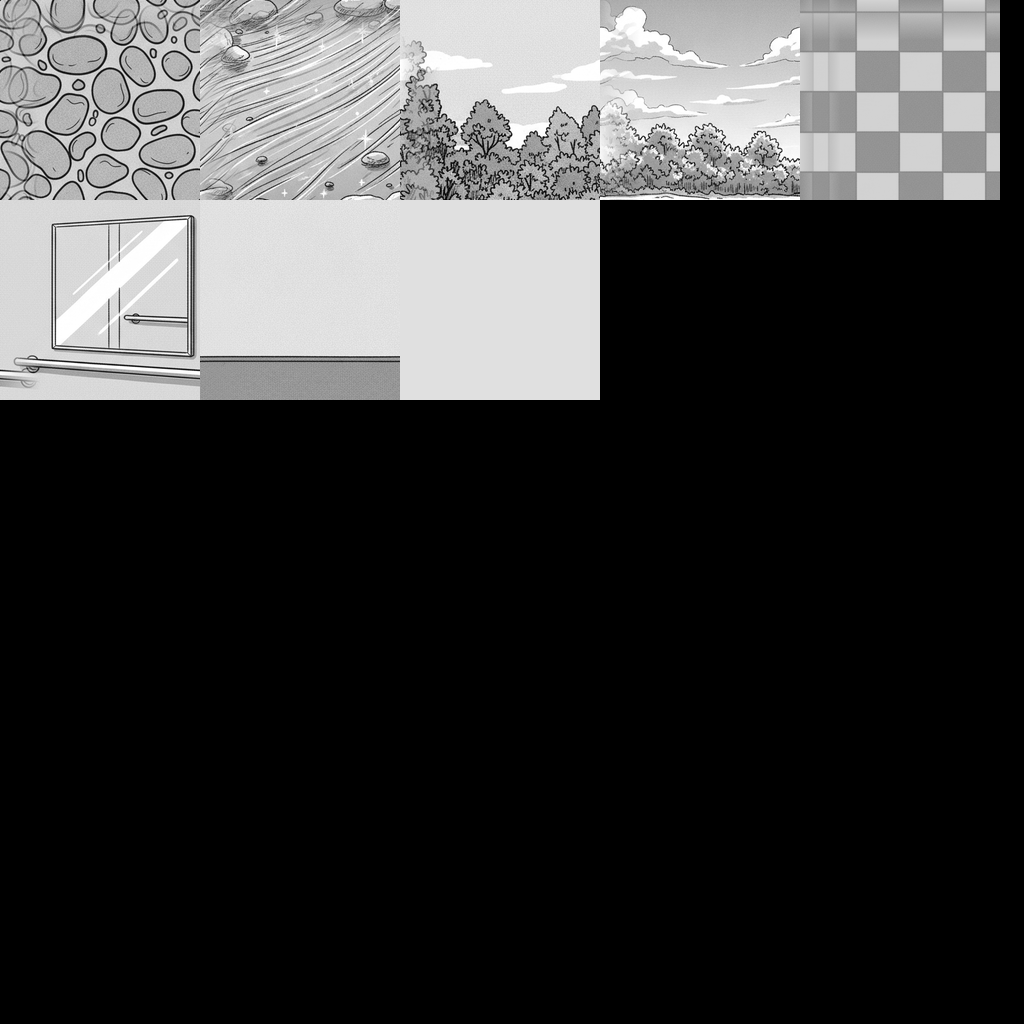
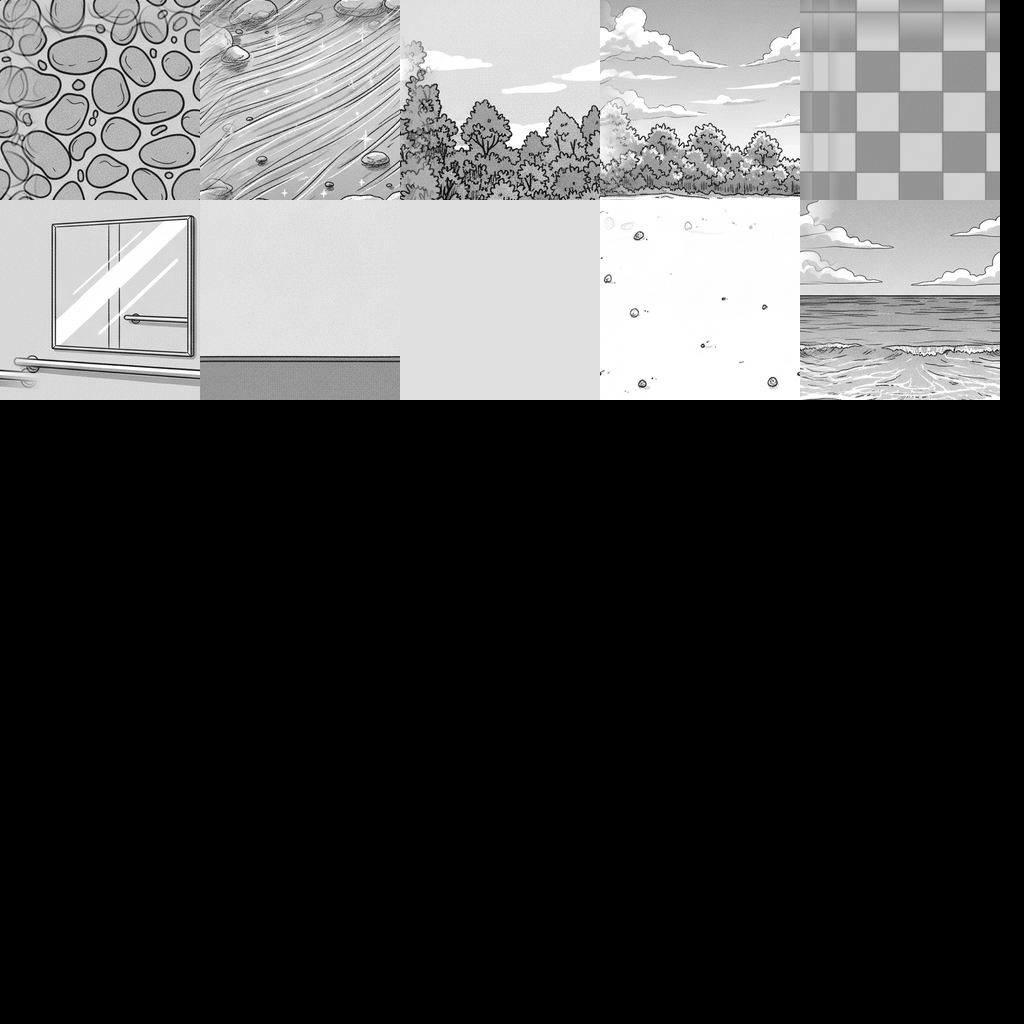
병문안 v0.80: 3일차 부탁, 어머니와의 바닷가를 걷는 기억
- 의사의 3일차 부탁: 4층 옆 병실 보호자(개인화)를 질문으로
- 바닷가: 물을 사 오니 사라진 엄마, 자기 탓을 하는 생각, 매점 뒤의 엄마("너 탓 아니야")
- 같이 숨 고르기, 다음 날 소녀에게 그 이야기
- Gemini 2회(누적 45회)

Changed region(s): [[0.5625, 0.1875, 1.0, 0.4062]]

diff --git a/src/features/visit/requests.ts b/src/features/visit/requests.ts
@@ -39,7 +39,7 @@ export type Request = {
    * what goes through their head at each step in between. Then back to the hospital, at `person`'s `again`.
    */
   /** `opening`: what goes through their head on arriving, before anything happens. */
-  memory: { place: 'river' | 'rehab'; title: string; opening: string; lostTitle: string; returnTitle: string; meet: Talk; found: Talk; thoughts: string[] };
+  memory: { place: 'river' | 'rehab' | 'beach'; title: string; opening: string; lostTitle: string; returnTitle: string; meet: Talk; found: Talk; thoughts: string[] };
   /** Who they are, for answering what the player writes themselves (Gemini, for those who turned AI on; api/chat.ts). */
   persona: string;
 };
@@ -248,6 +248,112 @@ export const REQUESTS: Request[] = [
     girl: {
       choice: '2층 청년 이야기',
       lines: ['넘어지는 거랑 못 걷는 거는 다르다… 그 말 좋다.', '나는 요즘 넘어질 일도 없어. 누워만 있으니까.', '…그래도 그 말은 가지고 있을게.'],
+    },
+  },
+  {
+    day: 3,
+    who: '4p',
+    name: '4층 옆 병실 보호자',
+    distortion: '개인화',
+    goal: { text: '4층 옆 병실 보호자와 이야기하기', floor: 4, cell: { x: 12, y: 1 }, face: 1 },
+    doctor: {
+      start: {
+        lines: [
+          '오셨어요. 오늘도 하나 부탁드려도 될까요?',
+          '이 층 보호자 휴게실에 계신 분이요. 어머니가 아프신 게 전부 자기 탓이라고 믿고 계세요.',
+          '일어난 일을 모두 자기 탓으로 가져가는 거죠. 개인화라고 해요.',
+          '질문을 몇 개만 해 주세요. 안 하셔도 괜찮아요.',
+        ],
+        choices: [
+          { label: '해 볼게요', to: 'yes' },
+          { label: '오늘은 어려워요', to: 'no' },
+        ],
+      },
+      yes: { effect: 'accept', lines: ['고마워요. 4층 보호자 휴게실이에요. 오른쪽 위쪽 방.'] },
+      no: { lines: ['괜찮아요. 마음이 생기면 언제든 들러 주세요.'] },
+    },
+    person: {
+      start: {
+        lines: ['…아, 의사 선생님이 보내셨어요? 저 괜찮아요.', '엄마가 이렇게 된 건 제 탓이에요. 제가 더 자주 왔어야 했어요.', '바쁘다는 핑계로 한 달에 한 번. 그게 다였어요.'],
+        choices: [
+          { label: '어머니가 아프시게 된 데에는 어떤 일들이 함께 있었을까요?', to: 'causes' },
+          { label: '그렇게 자책하지 마세요.', to: 'dismissed' },
+          { label: '지금부터 자주 오시면 되죠.', to: 'advised' },
+        ],
+      },
+      dismissed: {
+        lines: ['자책이 아니라 사실이에요.'],
+        choices: [
+          { label: '어머니가 아프시게 된 데에는 어떤 일들이 함께 있었을까요?', to: 'causes' },
+          { label: '지금부터 자주 오시면 되죠.', to: 'advised' },
+        ],
+      },
+      advised: {
+        lines: ['…지금은 와도 소용없을까 봐요.'],
+        choices: [
+          { label: '어머니가 아프시게 된 데에는 어떤 일들이 함께 있었을까요?', to: 'causes' },
+          { label: '그렇게 자책하지 마세요.', to: 'dismissed' },
+        ],
+      },
+      causes: {
+        lines: ['…병이요. 나이도 있고요. 엄마가 검진을 몇 번 미루기도 했어요.', '근데 그것도 제가 챙겼어야죠.'],
+        choices: [
+          { label: '같은 일이 친구에게 있었다면, 그 친구에게도 그렇게 말할 거예요?', to: 'friend' },
+          { label: '맞아요, 좀 더 챙기셨으면 좋았겠네요.', to: 'agreed' },
+        ],
+      },
+      agreed: {
+        lines: ['…역시 그렇죠.'],
+        choices: [{ label: '같은 일이 친구에게 있었다면, 그 친구에게도 그렇게 말할 거예요?', to: 'friend' }],
+      },
+      friend: {
+        lines: ['…아니요. 너 탓 아니라고 했겠죠.', '이상하네요. 저한테만 그게 안 돼요.'],
+        choices: [
+          { label: '어머니는 이 일을 어떻게 생각하실까요? 둘이 함께한 기억 중에 떠오르는 게 있어요?', to: 'story' },
+          { label: '그럼 이제 마음이 좀 편하시죠?', to: 'rushed' },
+        ],
+      },
+      rushed: {
+        lines: ['그렇게 금방은 안 돼요.'],
+        choices: [{ label: '어머니는 이 일을 어떻게 생각하실까요? 둘이 함께한 기억 중에 떠오르는 게 있어요?', to: 'story' }],
+      },
+      story: { lines: ['…작년 여름에 엄마랑 바다에 갔어요. 둘이서는 처음이었어요.'], then: 'remembered' },
+      remembered: { effect: 'memory', lines: [] },
+      again: {
+        lines: ['…그때 엄마가 그랬어요. 엄마 몸은 엄마가 챙기는 거라고. 나는 와 주는 걸로 충분하다고.', '그 말을 잊고 있었어요. 아니, 안 믿었던 것 같아요.', '제 탓인 것도 조금은 있겠죠. 근데 전부는 아니었네요.'],
+        choices: [{ label: '같이 천천히 숨 좀 쉬고 가요.', to: 'relax' }],
+      },
+      relax: { effect: 'breathe', relax: 'breath', lines: ['…네.'], then: 'done' },
+      done: { effect: 'solve', lines: ['…좀 가벼워졌어요.', '오늘은 엄마 손 잡고 바다 얘기 해 드릴게요.'] },
+    },
+    memory: {
+      place: 'beach',
+      title: '작년 여름, 엄마와 바다',
+      opening: '엄마랑 둘이 바다라니. 몇 년 만이지.',
+      lostTitle: '길 건너 가게에서 물을 사 오니, 엄마가 자리에 없다.',
+      returnTitle: '다시, 병원',
+      meet: {
+        start: {
+          lines: ['바다 오니까 좋다. 너랑 둘이 이렇게 온 거 얼마 만이니.', '목마르다. 길 건너 가게에서 물 좀 사다 줄래?'],
+          choices: [{ label: '금방 다녀올게요.', to: 'go' }],
+        },
+        go: { lines: ['천천히 와. 엄마 여기 있을게.'], then: 'gone' },
+        gone: { effect: 'lose', lines: [] },
+      },
+      found: {
+        start: {
+          lines: ['어, 왔니? 매점 뒤에 조개가 많길래.', '…얼굴이 왜 그래. 검진 미룬 거, 그건 엄마가 고집부린 거야. 너 탓 아니야.', '엄마 몸은 엄마가 챙기는 거야. 너는 와 주는 걸로 충분해.'],
+          choices: [{ label: '…같이 앉아 있어요, 엄마.', to: 'back' }],
+        },
+        back: { effect: 'return', lines: [] },
+      },
+      thoughts: ['또 혼자 뒀어.', '내가 더 자주 왔으면 이렇게까지 아프진 않았을 텐데.', '검진 날짜도 내가 챙겼어야 했는데.', '다 내 탓이야.', '…저기, 매점 뒤에.'],
+    },
+    persona: `4층 호스피스 병동 옆 병실의 보호자. 사십 대 여성. 말기의 어머니를 돌보며, 어머니가 아픈 게 자기가 자주 오지 않았기 때문이라고 믿는다(개인화). 조용하고 지쳐 있다. 작년 여름 어머니와 둘이 바다에 갔을 때 어머니가 "엄마 몸은 엄마가 챙기는 거야. 너는 와 주는 걸로 충분해"라고 했던 일은, 플레이어가 함께한 기억을 묻기 전에는 먼저 꺼내지 않는다.`,
+    after: ['어제 엄마랑 바다 얘기 했어요. 엄마가 웃었어요.'],
+    girl: {
+      choice: '4층 옆 병실 보호자분 이야기',
+      lines: ['너 탓 아니야. 그 말, 하기는 쉬운데 듣기는 어렵지.', '우리 엄마도 그런 얼굴 해. 나 볼 때.', '…나중에 엄마한테 그 말 해 줘야겠다. 내가.'],
     },
   },
 ];

diff --git a/scripts/check-core-flow.js b/scripts/check-core-flow.js
@@ -835,11 +835,60 @@ async function main() {
       t.note('병문안: 2일차 부탁이 풀림', await t.waitText('다리가 좀 제 거 같네요', 2000));
       await stepBack();
 
+      // the doctor's request for the day, taken on, and the questions that lead to the story (each request below)
+      const request = async (who, questions) => {
+        await openMap();
+        await t.clickText('(시험) 의사 앞');
+        await sleep(400);
+        await t.clickText('의사 선생님에게 말 걸기');
+        await tapUntil('해 볼게요');
+        await t.clickText('해 볼게요');
+        await sleep(300);
+        await stepBack();
+        await openMap();
+        await t.clickText('(시험) 부탁 상대 앞');
+        await sleep(500);
+        await t.clickText(`${who}에게 말 걸기`);
+        for (const q of questions) {
+          await tapUntil(q);
+          await t.clickText(q);
+        }
+      };
+
       await nextDay();
       await talk();
       await tapUntil('병실 앞 복도');
       await toClue();
       await pickClue();
+      await stepBack();
+      // day 3's request: the daughter whose mother is dying, and the beach they went to
+      await request('옆 병실 보호자', ['어머니가 아프시게 된 데에는 어떤 일들이 함께 있었을까요?', '같은 일이 친구에게 있었다면, 그 친구에게도 그렇게 말할 거예요?', '어머니는 이 일을 어떻게 생각하실까요? 둘이 함께한 기억 중에 떠오르는 게 있어요?']);
+      t.note('병문안: 엄마와의 바다로 감', await tapUntil('파라솔 밑의 엄마에게 가기'));
+      await sleep(500);
+      await t.shot('beach_start.png');
+      await press('앞으로', 2);
+      await press('왼쪽');
+      t.note('병문안: 파라솔 밑의 엄마', await t.clickText('엄마에게 말 걸기'));
+      await tapUntil('금방 다녀올게요.');
+      await t.shot('beach_meet.png');
+      await t.clickText('금방 다녀올게요.');
+      t.note('병문안: 돌아오니 엄마가 없음', await tapUntil('엄마 찾기'));
+      await sleep(500);
+      await t.shot('beach_lost.png');
+      await press('오른쪽');
+      await press('앞으로', 6);
+      t.note('병문안: 찾는 동안 자기 탓', (await t.hasText('다 내 탓이야.')) || (await t.hasText('…저기, 매점 뒤에.')));
+      await press('오른쪽');
+      t.note('병문안: 매점 뒤의 엄마', await t.clickText('엄마에게 말 걸기'));
+      t.note('병문안: 엄마는 네 탓이 아니라고', await t.waitText('어, 왔니? 매점 뒤에 조개가 많길래.', 2000));
+      await t.shot('beach_found.png');
+      await tapUntil('…같이 앉아 있어요, 엄마.');
+      await t.clickText('…같이 앉아 있어요, 엄마.');
+      t.note('병문안: 보호자가 그날을 돌아봄', await tapUntil('같이 천천히 숨 좀 쉬고 가요.', 30));
+      await t.clickText('같이 천천히 숨 좀 쉬고 가요.');
+      await t.waitText('숨을 들이쉬어요', 2000);
+      await t.clickText('충분해요');
+      t.note('병문안: 3일차 부탁이 풀림', await t.waitText('좀 가벼워졌어요', 2000));
       await stepBack();
       await nextDay();
       await talk();

diff --git a/src/features/visit/places.ts b/src/features/visit/places.ts
@@ -8,7 +8,7 @@
 type Spot = { x: number; y: number; dir: 0 | 1 | 2 | 3 };
 
 /** Tiles on the memory sheet (hospitalArt.ts MEMORY_TILES), by name. */
-export type MemoryTile = 'pebbles' | 'water' | 'woods' | 'farBank' | 'rehabFloor' | 'rehabWall' | 'plainWall' | 'ceiling';
+export type MemoryTile = 'pebbles' | 'water' | 'woods' | 'farBank' | 'rehabFloor' | 'rehabWall' | 'plainWall' | 'ceiling' | 'sand' | 'sea';
 
 export type Place = {
   map: string[];
@@ -44,7 +44,7 @@ export type Place = {
   lostArrow: boolean;
 };
 
-export type PlaceId = 'river' | 'rehab';
+export type PlaceId = 'river' | 'rehab' | 'beach';
 
 export const PLACES: Record<PlaceId, Place> = {
   // A summer riverside: C the car, A the tent, R thick bushes (nothing behind them shows), % rocks, ~ the river.
@@ -125,5 +125,46 @@ export const PLACES: Record<PlaceId, Place> = {
     meetGoal: '물리치료사에게 가기',
     lostGoal: '평행봉 끝까지 걷기',
     lostArrow: true,
+  },
+  // A summer beach, a mother and her grown-up daughter: U the umbrella, B a bench, K a closed snack kiosk (she's found
+  // behind it), O a rowboat on the sand, ~ the sea.
+  beach: {
+    map: [
+      '###########',
+      '#..U......#',
+      '#..k......#',
+      '#.........#',
+      '#.B.....Kj#',
+      '#......O..#',
+      '#~~~~~~~~~#',
+      '#~~~~~~~~~#',
+      '###########',
+    ],
+    outdoors: true,
+    start: { x: 1, y: 3, dir: 1 },
+    meet: { x: 3, y: 3, dir: 0 },
+    found: { x: 9, y: 3, dir: 2 },
+    lostAt: { x: 3, y: 3, dir: 0 },
+    stops: 'UBKO~',
+    spread: '~',
+    things: {
+      U: { look: 'beachUmbrella', text: '파라솔이다. 그늘이 아직 따뜻하다.' },
+      B: { look: 'beachBench', text: '나무 벤치다. 모래가 잔뜩 묻어 있다.' },
+      K: { look: 'beachKiosk', text: '문 닫은 매점이다. 그 뒤가 보이지 않는다.' },
+      O: { look: 'beachBoat', text: '모래에 끌어올린 나룻배다.' },
+      '~': { text: '파도가 발치까지 왔다가 돌아간다.' },
+    },
+    ground: 'sand',
+    groundOn: { '~': 'water' },
+    wall: 'woods',
+    southWall: 'sea',
+    wallHeight: 2.6,
+    span: 3,
+    fog: [0.84, 0.84, 0.82],
+    light: 1.16,
+    people: { k: { name: '엄마', look: 'mother' }, j: { name: '엄마', look: 'mother' } },
+    meetGoal: '파라솔 밑의 엄마에게 가기',
+    lostGoal: '엄마 찾기',
+    lostArrow: false,
   },
 };

diff --git a/scripts/assets/generate-hospital-art.js b/scripts/assets/generate-hospital-art.js
@@ -88,6 +88,15 @@ hands unfolding a letter, the writing not visible. Only the hands and forearms s
   // The first day: hair down, both shoulders on the mattress, only her head turning.
   'lying-loose-window': `${LYING_LOOSE} Only her head is turned to the side, her face in profile looking far away out of a window. Calm, a little distant.`,
   'lying-loose-turned': `${LYING_LOOSE} Only her head is turned about halfway back toward the viewer, both eyes visible, looking up from the pillow. The faintest playful hint at the corner of her mouth.`,
+  // v0.80: the third request's memory, a summer beach with a mother
+  'beach-tex': `${SAME_STYLE} Two separate square panels side by side with a wide plain gap, each completely filled edge to edge,
+flat, no frame: a sandy beach seen from straight above, fine sand with a few footprints and small shells, evenly lit; and
+the sea seen straight out from the beach, the upper half an open summer sky with a few soft clouds, the horizon across the
+middle, gentle waves and a strip of wet sand along the bottom edge.`,
+  'beach-props': `${SAME_STYLE} Five separate things, each whole and seen straight on: a striped beach umbrella planted in the
+sand; a small seaside snack kiosk with an awning and no writing; a small wooden rowboat pulled up on the sand, seen from
+the side; a low wooden bench; and a woman in her late sixties in a wide sun hat, a light cardigan and a long skirt, full
+body, standing, facing the viewer, feet visible, a gentle smile.`,
   // v0.79: the second request's memory, a rehabilitation room on the first day of walking again
   'rehab-tex': `${SAME_STYLE} Two separate square panels side by side with a wide plain gap, each completely filled edge to edge,
 flat, no perspective, evenly lit: a rehabilitation room floor of soft rubber floor tiles seen from straight above; and a

diff --git a/scripts/assets/build-hospital-sheets.js b/scripts/assets/build-hospital-sheets.js
@@ -80,6 +80,12 @@ const ITEMS = {
     { src: 'rehab-props', box: [330, 470, 530, 670], cell: { x: 256, y: 0, w: 256, h: 256 } },
     { src: 'rehab-props', box: [542, 538, 756, 674], cell: { x: 512, y: 0, w: 256, h: 256 } },
     { src: 'rehab-props', box: [768, 418, 1000, 678], cell: { x: 768, y: 0, w: 256, h: 256 } },
+    // v0.80: the beach
+    { src: 'beach-props', box: [12, 438, 270, 750], cell: { x: 0, y: 256, w: 256, h: 256 } },
+    { src: 'beach-props', box: [278, 498, 528, 748], cell: { x: 256, y: 256, w: 256, h: 256 } },
+    { src: 'beach-props', box: [488, 636, 702, 732], cell: { x: 512, y: 256, w: 256, h: 256 } },
+    { src: 'beach-props', box: [698, 664, 850, 750], cell: { x: 768, y: 256, w: 256, h: 256 } },
+    { src: 'beach-props', box: [858, 362, 988, 766], cell: { x: 0, y: 512, w: 256, h: 512 }, height: 470 },
   ],
   // v0.74: everyone who shared a drawing now has their own (hospitalArt.ts PERSON2_SLOT).
   people2: [
@@ -406,6 +412,9 @@ const MEMORY = [
   { tile: 5, src: 'rehab-tex', box: [556, 294, 966, 712], seam: 'x' },
   { tile: 6, ...WALL },
   { tile: 7, flat: 224 },
+  // v0.80: the beach's sand, and the sea under its sky
+  { tile: 8, src: 'beach-tex', box: [56, 300, 458, 590], seam: 'xy' },
+  { tile: 9, src: 'beach-tex', box: [560, 294, 972, 696], seam: 'x' },
 ];
 // The glass of the window tile, and what each floor sees through it: the horizon of the courtyard, and the ginkgo
 // (the same drawing as the courtyard's own) at its middle, its foot and its height. From the fourth floor it's small

diff --git a/src/features/visit/hospitalArt.ts b/src/features/visit/hospitalArt.ts
@@ -162,13 +162,18 @@ function doorShape(p: Pen, x: number, y: number) {
 
 // Tiles taken whole from the drawn sheet when it's there; the rest are painted here, over the drawn wall where they have one.
 /** v0.79: the remembered places' own sheet of tiles (places.ts MemoryTile), the same layout as the structure sheet. */
-export const MEMORY_TILES = { pebbles: 0, water: 1, woods: 2, farBank: 3, rehabFloor: 4, rehabWall: 5, plainWall: 6, ceiling: 7 } as const;
+export const MEMORY_TILES = { pebbles: 0, water: 1, woods: 2, farBank: 3, rehabFloor: 4, rehabWall: 5, plainWall: 6, ceiling: 7, sand: 8, sea: 9 } as const;
 /** And their things and people, cut out like the rest. */
 export const MEMORY_PART = {
   rehabBars: { x: 0, y: 0, w: 256, h: 256 },
   rehabStairs: { x: 256, y: 0, w: 256, h: 256 },
   rehabMat: { x: 512, y: 0, w: 256, h: 256 },
   rehabBike: { x: 768, y: 0, w: 256, h: 256 },
+  beachUmbrella: { x: 0, y: 256, w: 256, h: 256 },
+  beachKiosk: { x: 256, y: 256, w: 256, h: 256 },
+  beachBoat: { x: 512, y: 256, w: 256, h: 256 },
+  beachBench: { x: 768, y: 256, w: 256, h: 256 },
+  mother: { x: 0, y: 512, w: 256, h: 512 },
 } as const;
 export type MemoryPart = keyof typeof MEMORY_PART;
 

diff --git a/src/features/visit/progress.ts b/src/features/visit/progress.ts
@@ -50,7 +50,7 @@ export function clueOn(day: number, floor: number) {
 }
 
 /** The days the doctor has a request (REQUESTS in requests.ts; scripts/check-visit-logic.mjs keeps the two the same). */
-export const REQUEST_DAYS: readonly number[] = [1, 2];
+export const REQUEST_DAYS: readonly number[] = [1, 2, 3];
 
 /** The happy ending: every one of the doctor's requests settled by the last day (docs/의사의_부탁.md). */
 export function happyUnlocked(solved: readonly number[]): boolean {

diff --git a/src/features/visit/hospitalScene.ts b/src/features/visit/hospitalScene.ts
@@ -136,6 +136,11 @@ const SPRITE_SIZE: Partial<Record<SpriteLook, { w: number; h: number }>> = {
   rehabStairs: { w: 0.9, h: 0.9 },
   rehabMat: { w: 0.85, h: 0.85 },
   rehabBike: { w: 0.85, h: 0.85 },
+  beachUmbrella: { w: 1.05, h: 1.05 },
+  beachKiosk: { w: 1.35, h: 1.35 },
+  beachBoat: { w: 0.95, h: 0.95 },
+  beachBench: { w: 0.8, h: 0.8 },
+  mother: { w: 0.4, h: 0.8 },
   collar: { w: 0.24, h: 0.24 },
   snack: { w: 0.24, h: 0.24 },
   laces: { w: 0.24, h: 0.24 },

diff --git a/docs/의사의_부탁.md b/docs/의사의_부탁.md
@@ -24,8 +24,8 @@
 | v0.72 | 보호자의 사연을 걷는 강가 장면(제미나이 그림 포함) | 완료 |
 | v0.73 | AI를 켠 사람의 직접 쓰는 대화 | 완료 |
 | v0.79 | 2일차: 곧 퇴원하는 청년, 재활실 첫날 | 완료 |
-| v0.80 | 3일차: 옆 병실 보호자, 어머니와의 바닷가 | 다음 |
-| v0.81 | 4일차: 외래의 어르신, 젊은 시절의 시장 | |
+| v0.80 | 3일차: 옆 병실 보호자, 어머니와의 바닷가 | 완료 |
+| v0.81 | 4일차: 외래의 어르신, 젊은 시절의 시장 | 다음 |
 | v0.82 | 5일차: 창가의 할아버지, 손주와 장기 두던 마당 | |
 | v0.83 | 6일차: 자원봉사자, 편지를 부치러 가던 밤길 | |
 
@@ -76,6 +76,22 @@
 ```
 
 "평행봉 끝까지만 가 봐요" → 중간에서 넘어짐 → 한 걸음마다 "역시 안 돼", "또 넘어질 거야. 뻔해" … "저기, 끝이 보인다" → 끝의 치료사가 "넘어지고 나서 네 걸음 더 왔어요" → 병원에서 "넘어지면 거기서 끝나는 건 아니었어요" → 같이 힘 빼기.
+
+### 바닷가 (3일차, v0.80)
+
+```
+###########
+#..U......#   U 파라솔
+#..k......#   k 엄마
+#.........#
+#.B.....Kj#   B 벤치, K 문 닫은 매점(그 뒤에 엄마 j)
+#......O..#   O 나룻배
+#~~~~~~~~~#   바다
+#~~~~~~~~~#
+###########
+```
+
+"물 좀 사다 줄래?" → 돌아오니 빈 파라솔 → "또 혼자 뒀어", "다 내 탓이야" … → 매점 뒤의 엄마가 "검진 미룬 건 엄마 고집이야. 너는 와 주는 걸로 충분해" → 병원에서 "제 탓인 것도 조금은 있겠죠. 근데 전부는 아니었네요" → 같이 숨 고르기.
 
 ## 강가 장면 (v0.72)
 

diff --git a/docs/병문안_모티브와_아트_구상.md b/docs/병문안_모티브와_아트_구상.md
@@ -199,6 +199,10 @@ No text. No horror, no blood, no medical equipment close-ups. Portrait orientati
 
 2일차 재활실: 재활실 바닥(고무 타일)과 거울·손잡이 봉이 있는 벽 한 장, 평행봉·연습 계단·매트·실내 자전거 한 장. 재시도 없음. 바닥은 체크무늬가 강해 대비를 30%로 낮췄다. 물리치료사는 v0.74의 그림을 다시 썼다.
 
+### 12차 제작 결과 (2026-11-05, Gemini 2회, 누적 45회)
+
+3일차 바닷가: 모래사장과 하늘·수평선의 바다 한 장, 파라솔·매점·나룻배·벤치·챙 모자의 어머니 한 장. 재시도 없음. 나룻배는 낮아 사람을 가리지 못해 어머니는 매점 뒤에 둔다.
+
 ### 호출 계획
 
 1. **1차 시험 (약 3회):** B1, C1, C5. 분위기가 맞는지, 같은 소녀로 보이는지 확인한다.
